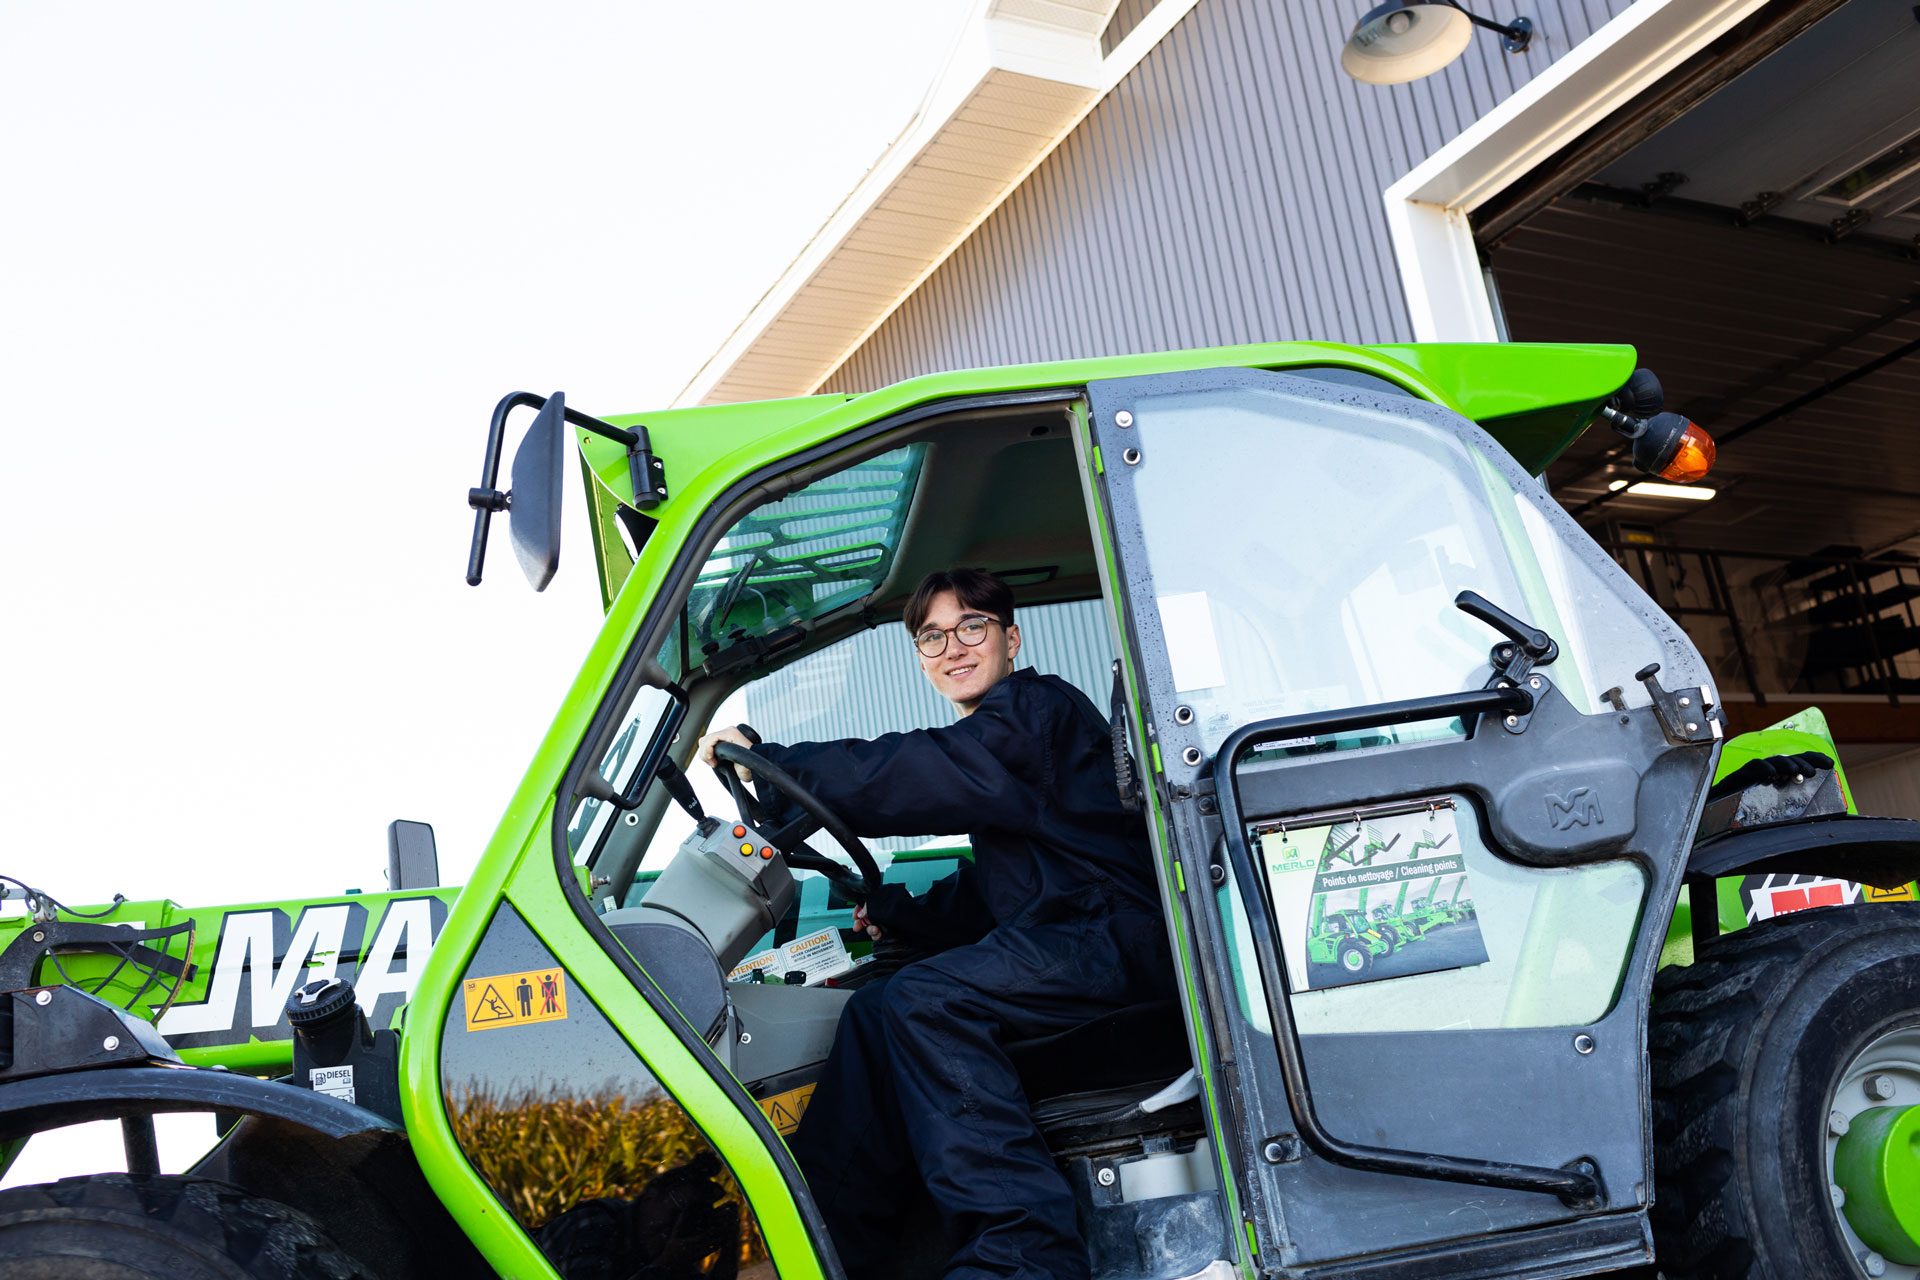
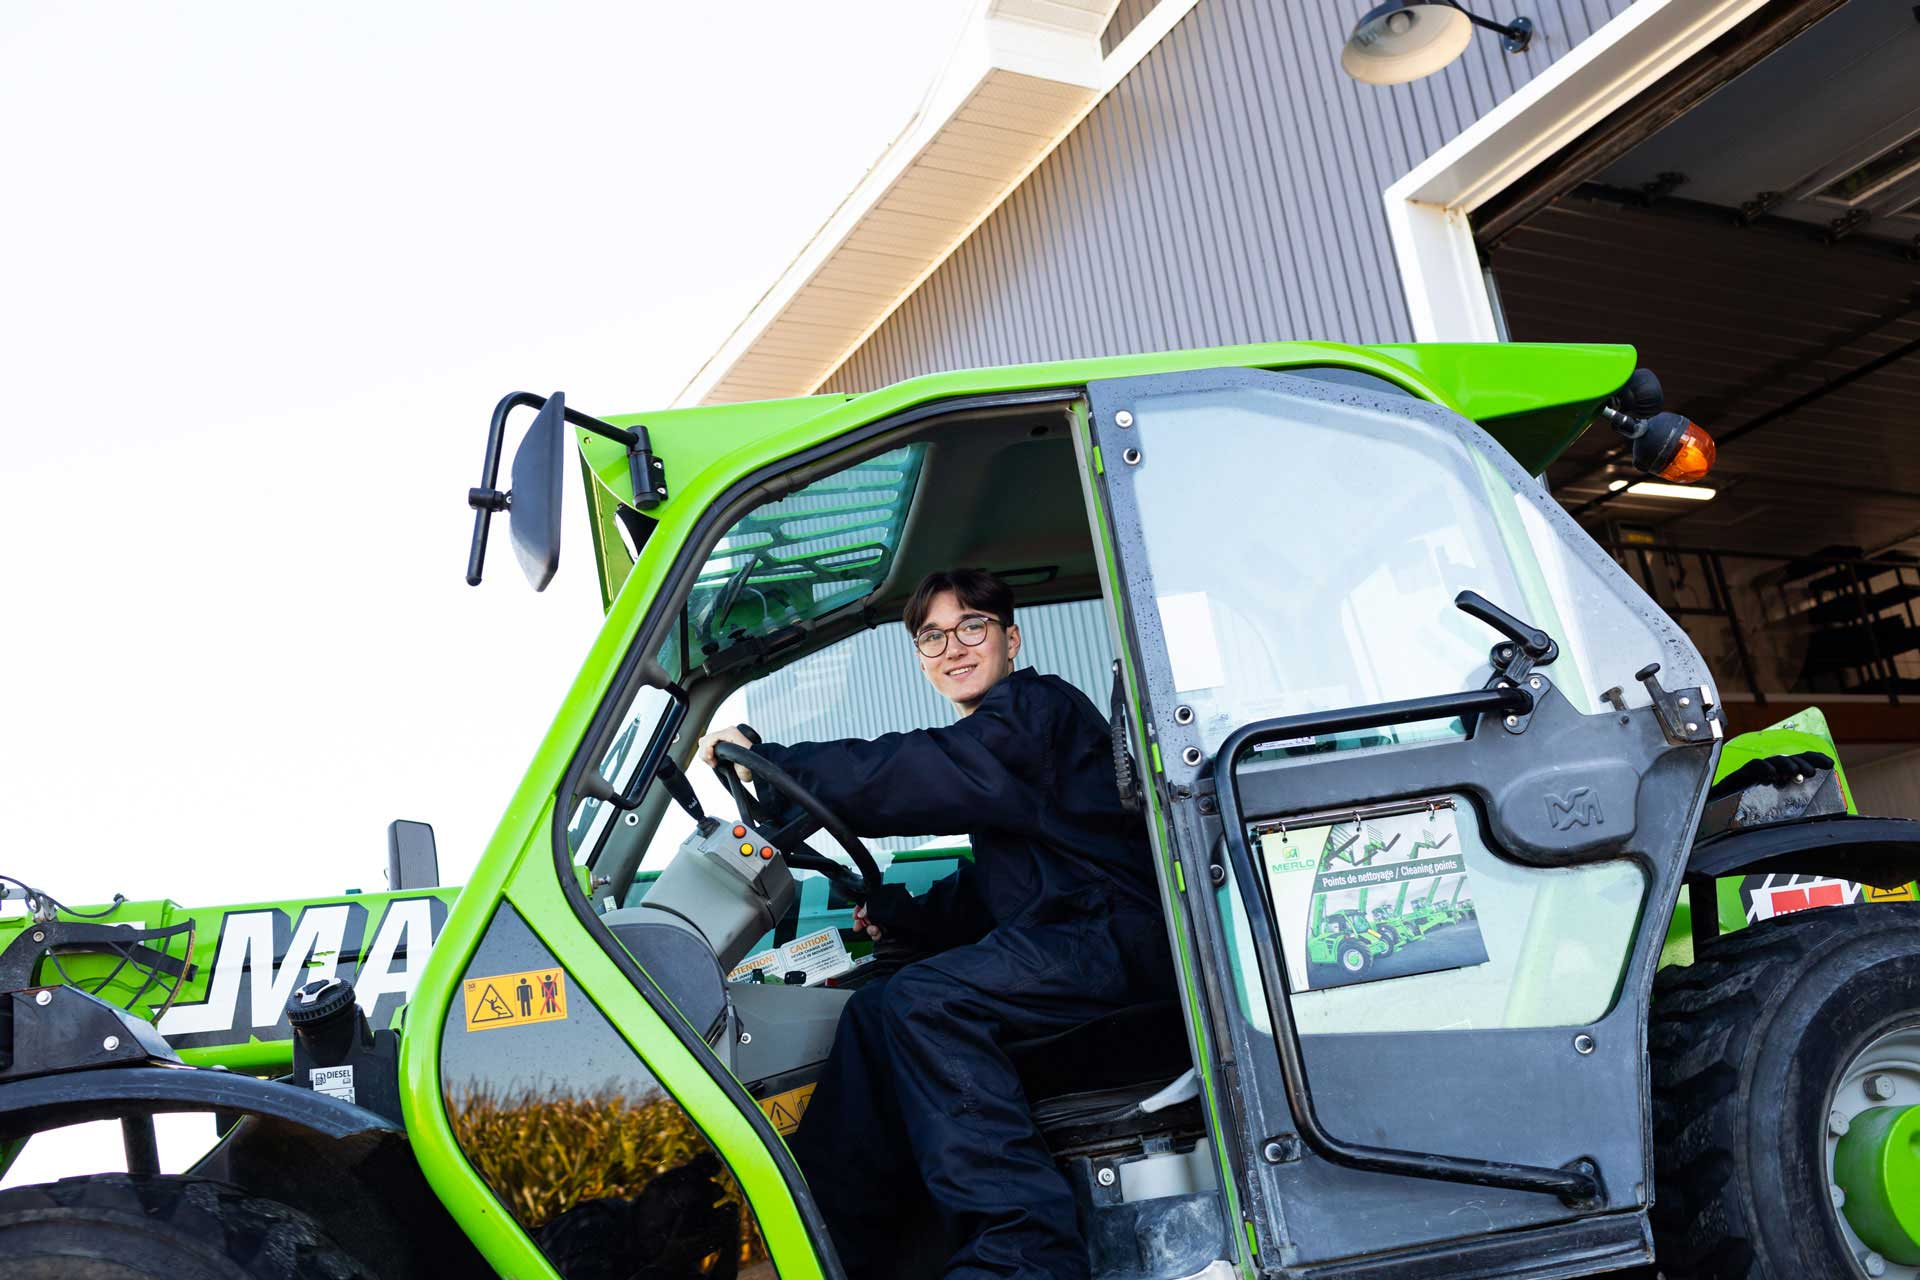
RETRAIT : image trop lourde

diff --git a/portfolio.html b/portfolio.html
@@ -91,7 +91,6 @@
             <button type="button" data-bs-target="#carouselAgricole" data-bs-slide-to="17" aria-label="Slide 18"></button>
             <button type="button" data-bs-target="#carouselAgricole" data-bs-slide-to="18" aria-label="Slide 19"></button>
             <button type="button" data-bs-target="#carouselAgricole" data-bs-slide-to="19" aria-label="Slide 20"></button>
-            <button type="button" data-bs-target="#carouselAgricole" data-bs-slide-to="20" aria-label="Slide 21"></button>
           </div>
       
           <div class="carousel-inner">
@@ -154,9 +153,6 @@
             </div>
             <div class="carousel-item">
               <img src="img/PBQ_Ferme_Ste-Victoire-4106.jpg" class="d-block w-100" alt="PBQ_Ferme_Ste-Victoire-4106">
-            </div>
-            <div class="carousel-item">
-              <img src="img/MMT_4488.jpg" class="d-block w-100" alt="MMT_4488">
             </div>
           </div>
       
